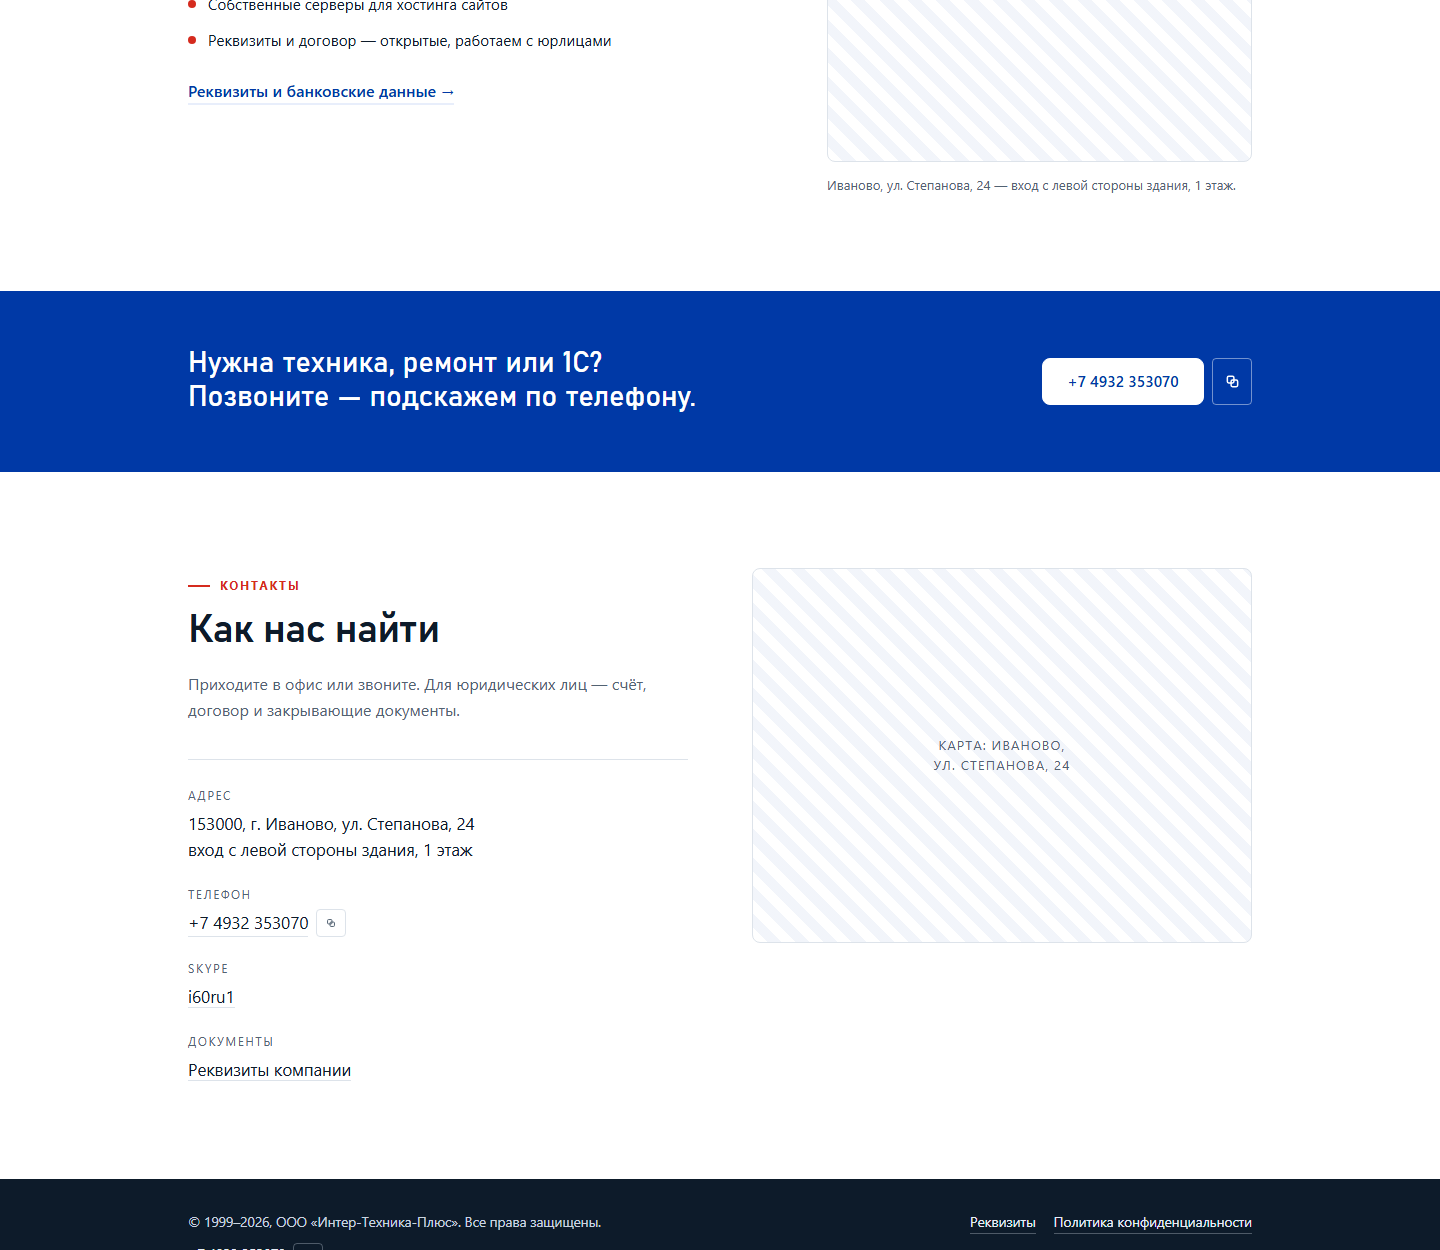
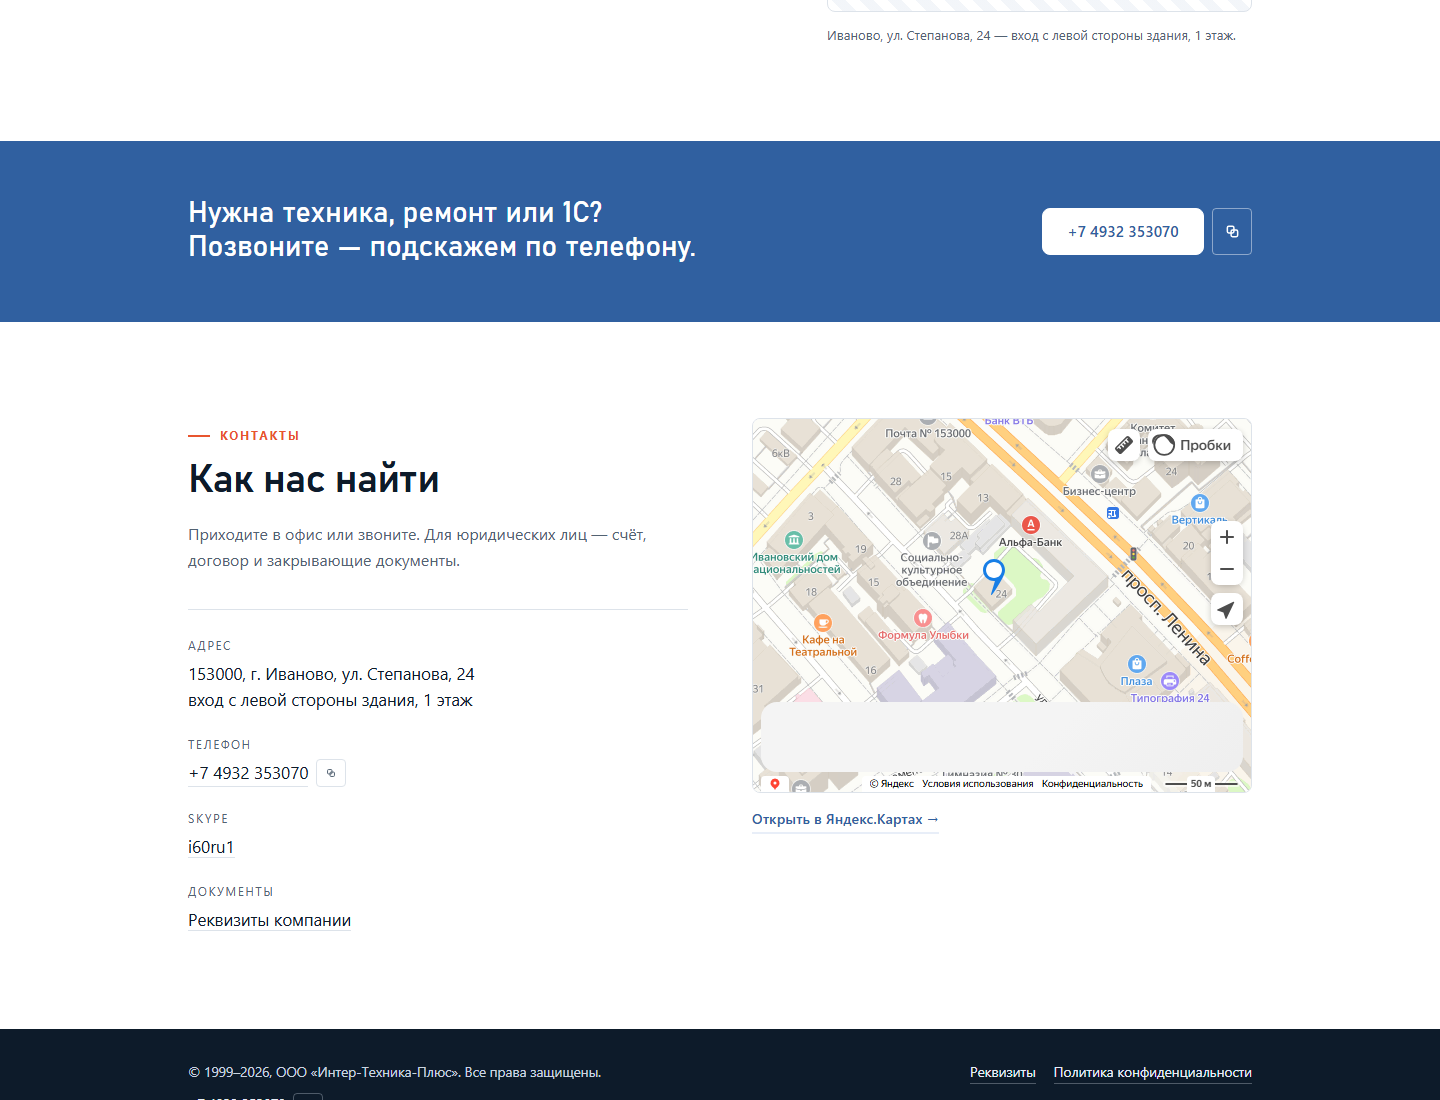
Карта Яндекса вместо заглушки: метка по координатам дома, ссылка на карты

diff --git a/index.html b/index.html
@@ -296,10 +296,16 @@
         </div>
 
         <div class="contacts-map">
-          <!-- TODO: Яндекс.Карты → «Поделиться» → «Код для сайта» (iframe) -->
-          <div class="media-placeholder media-placeholder--map" role="img" aria-label="Место для карты проезда">
-            <span>Карта: Иваново,<br>ул. Степанова, 24</span>
+          <!-- Карта Яндекса с меткой на доме. Координаты: 56.99736, 40.97433 -->
+          <div class="map-embed">
+            <iframe
+              src="https://yandex.ru/map-widget/v1/?ll=40.974334%2C56.997362&amp;z=17&amp;pt=40.974334,56.997362,pm2rdm"
+              title="Интер-Техника-Плюс на карте: Иваново, улица Степанова, 24"
+              loading="lazy"
+              allowfullscreen
+              referrerpolicy="no-referrer-when-downgrade"></iframe>
           </div>
+          <a class="link-arrow map-link" href="https://yandex.ru/maps/?text=Иваново%2C%20улица%20Степанова%2C%2024" target="_blank" rel="noopener">Открыть в Яндекс.Картах →</a>
         </div>
       </div>
     </section>

diff --git a/assets/style.css b/assets/style.css
@@ -618,7 +618,24 @@ p:last-child { margin-bottom: 0; }
 
 .messengers { display: flex; flex-wrap: wrap; gap: 16px; }
 
-.media-placeholder--map { aspect-ratio: 4 / 3; }
+/* Карта Яндекса */
+.map-embed {
+  position: relative;
+  aspect-ratio: 4 / 3;
+  border: 1px solid var(--line);
+  border-radius: var(--radius);
+  overflow: hidden;
+  background: var(--paper);
+}
+
+.map-embed iframe {
+  display: block;
+  width: 100%;
+  height: 100%;
+  border: 0;
+}
+
+.map-link { display: inline-block; margin-top: 14px; font-size: .9rem; }
 
 /* ---------- Телефон: набор и копирование ---------- */
 
@@ -850,7 +867,7 @@ p:last-child { margin-bottom: 0; }
 
 @media print {
   .site-header, .cta, .hero-actions, .nav-toggle, .mobile-bar,
-  .copy, .req-actions { display: none; }
+  .copy, .req-actions, .map-embed { display: none; }
   body { background: #fff; color: #000; padding-bottom: 0; }
   .section, .hero { padding-block: 20px; }
   .partners li { min-height: 56px; padding: 8px; }

diff --git a/privacy.html b/privacy.html
@@ -65,6 +65,11 @@
         Сайт использует cookie и счётчики аналитики для статистики посещений.
         Их можно отключить в настройках браузера.
       </p>
+      <p>
+        На странице контактов встроена карта Яндекс.Карт. При её загрузке
+        Яндекс может устанавливать собственные cookie — это происходит только
+        в момент показа карты, и на работу остального сайта не влияет.
+      </p>
 
       <h2>5. Сроки и защита</h2>
       <p>
